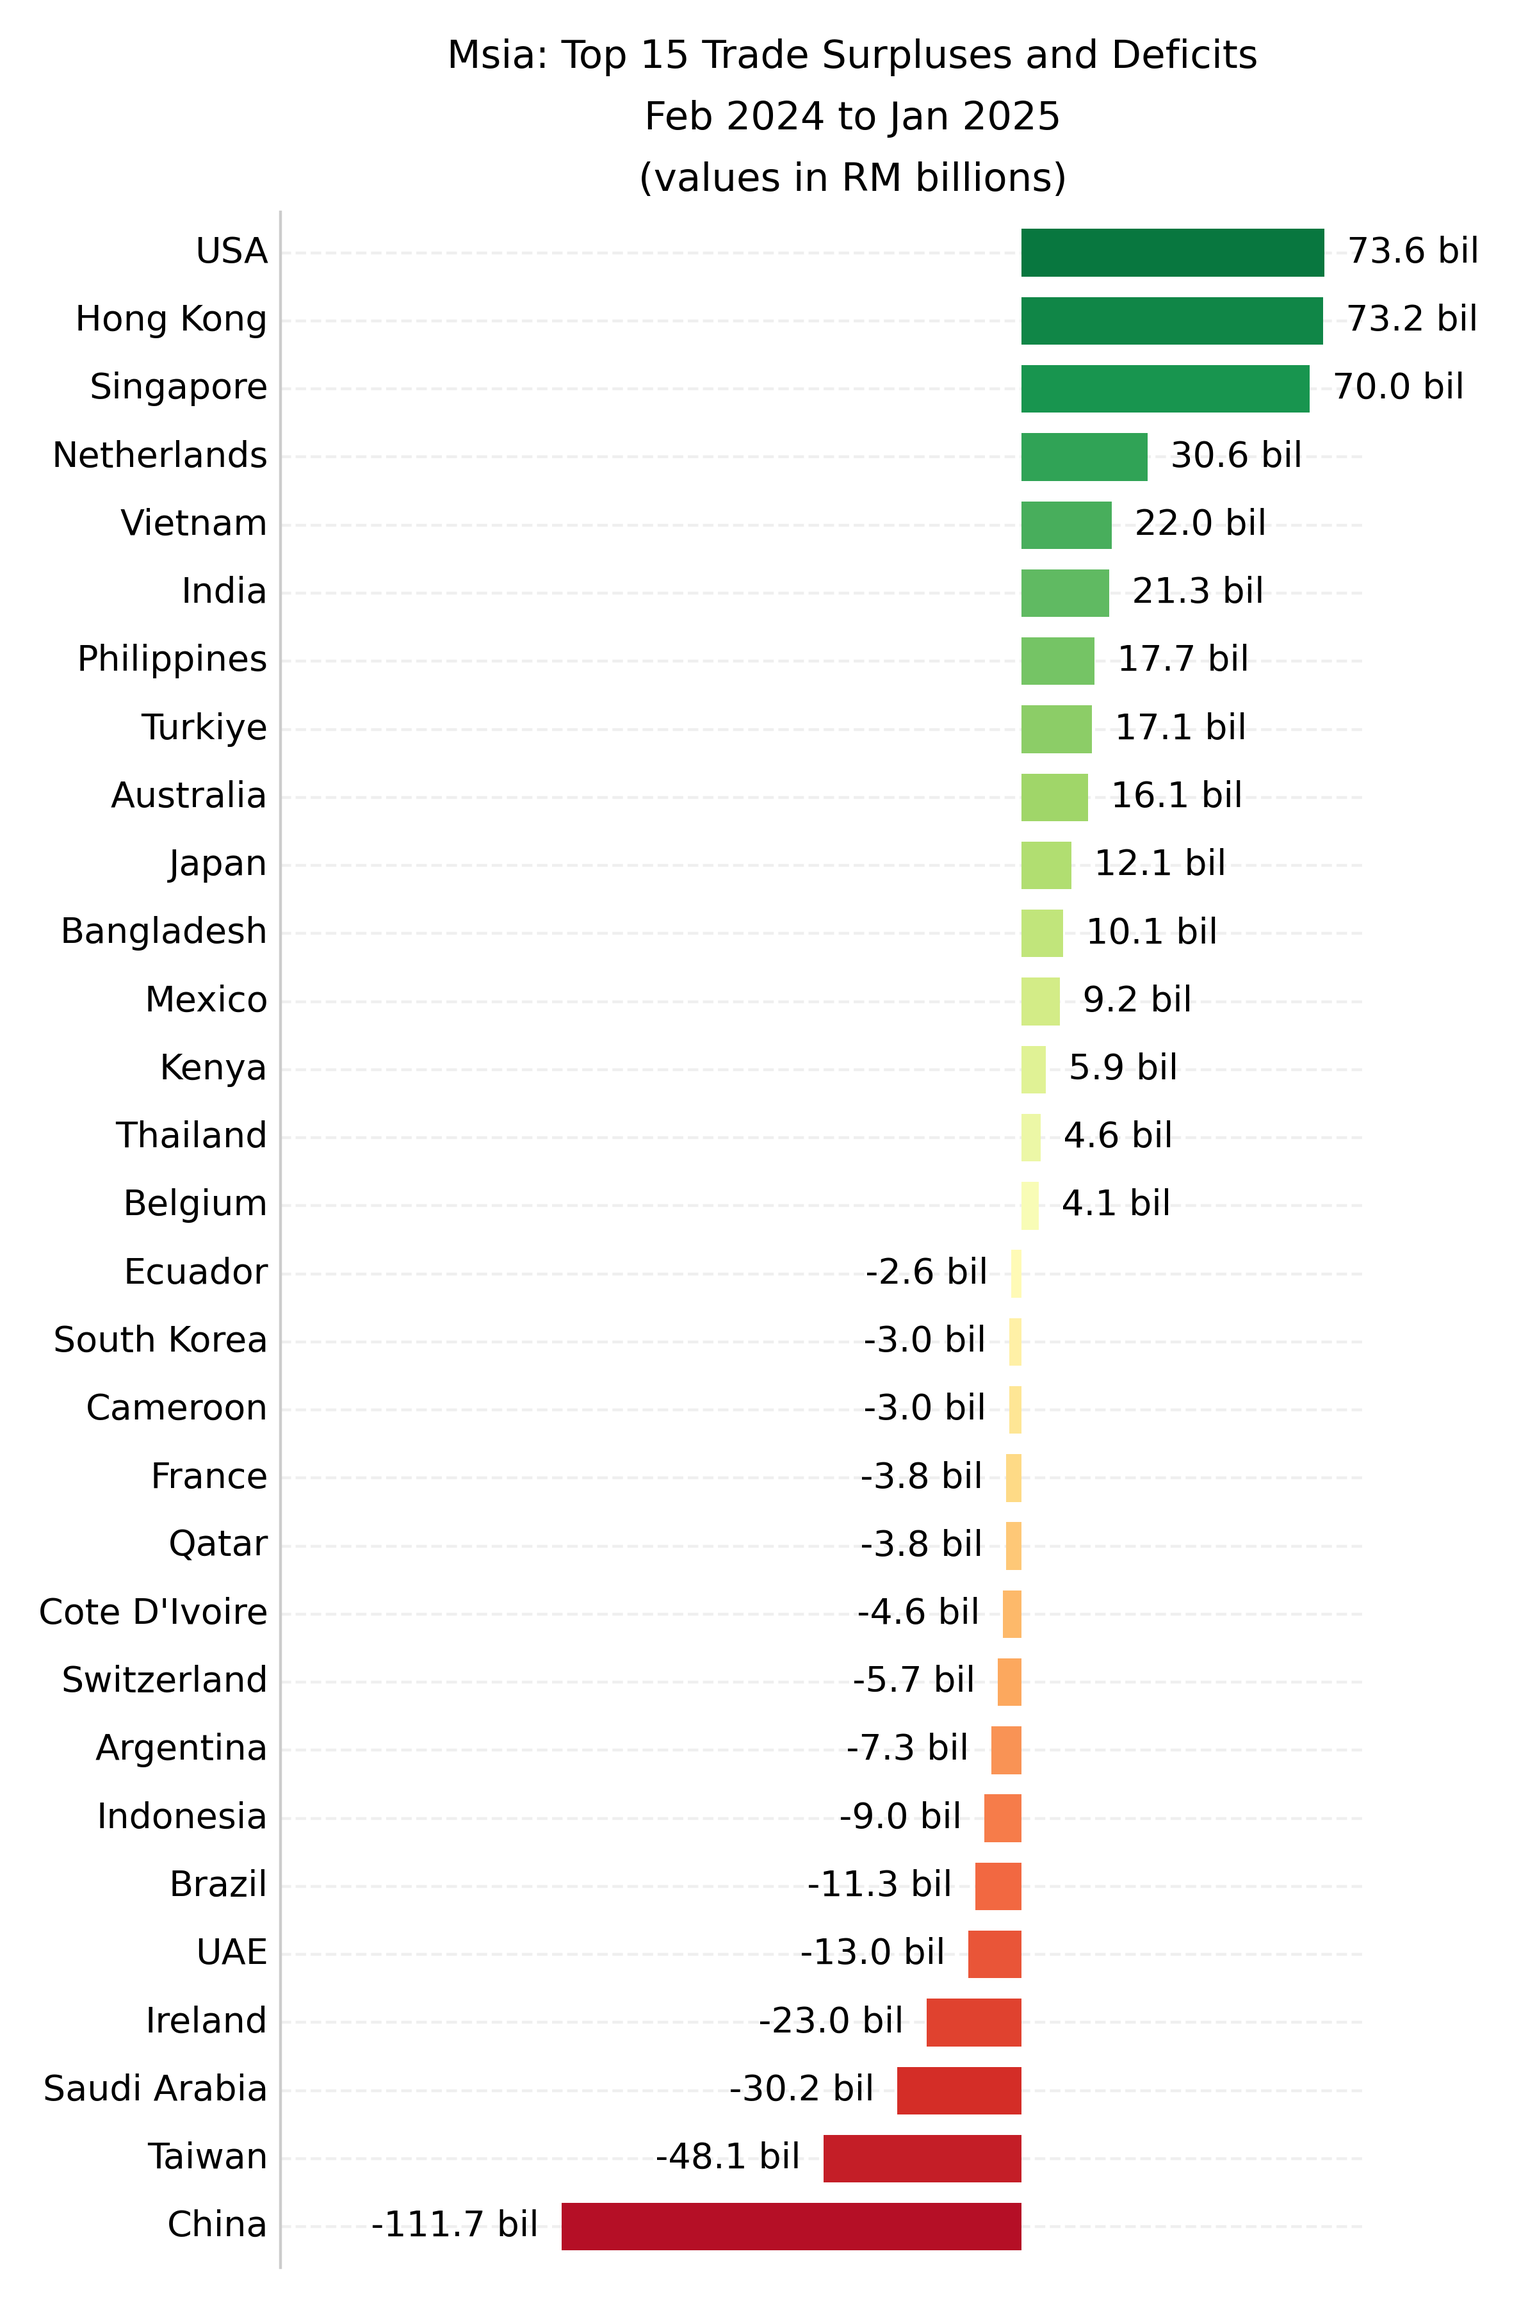
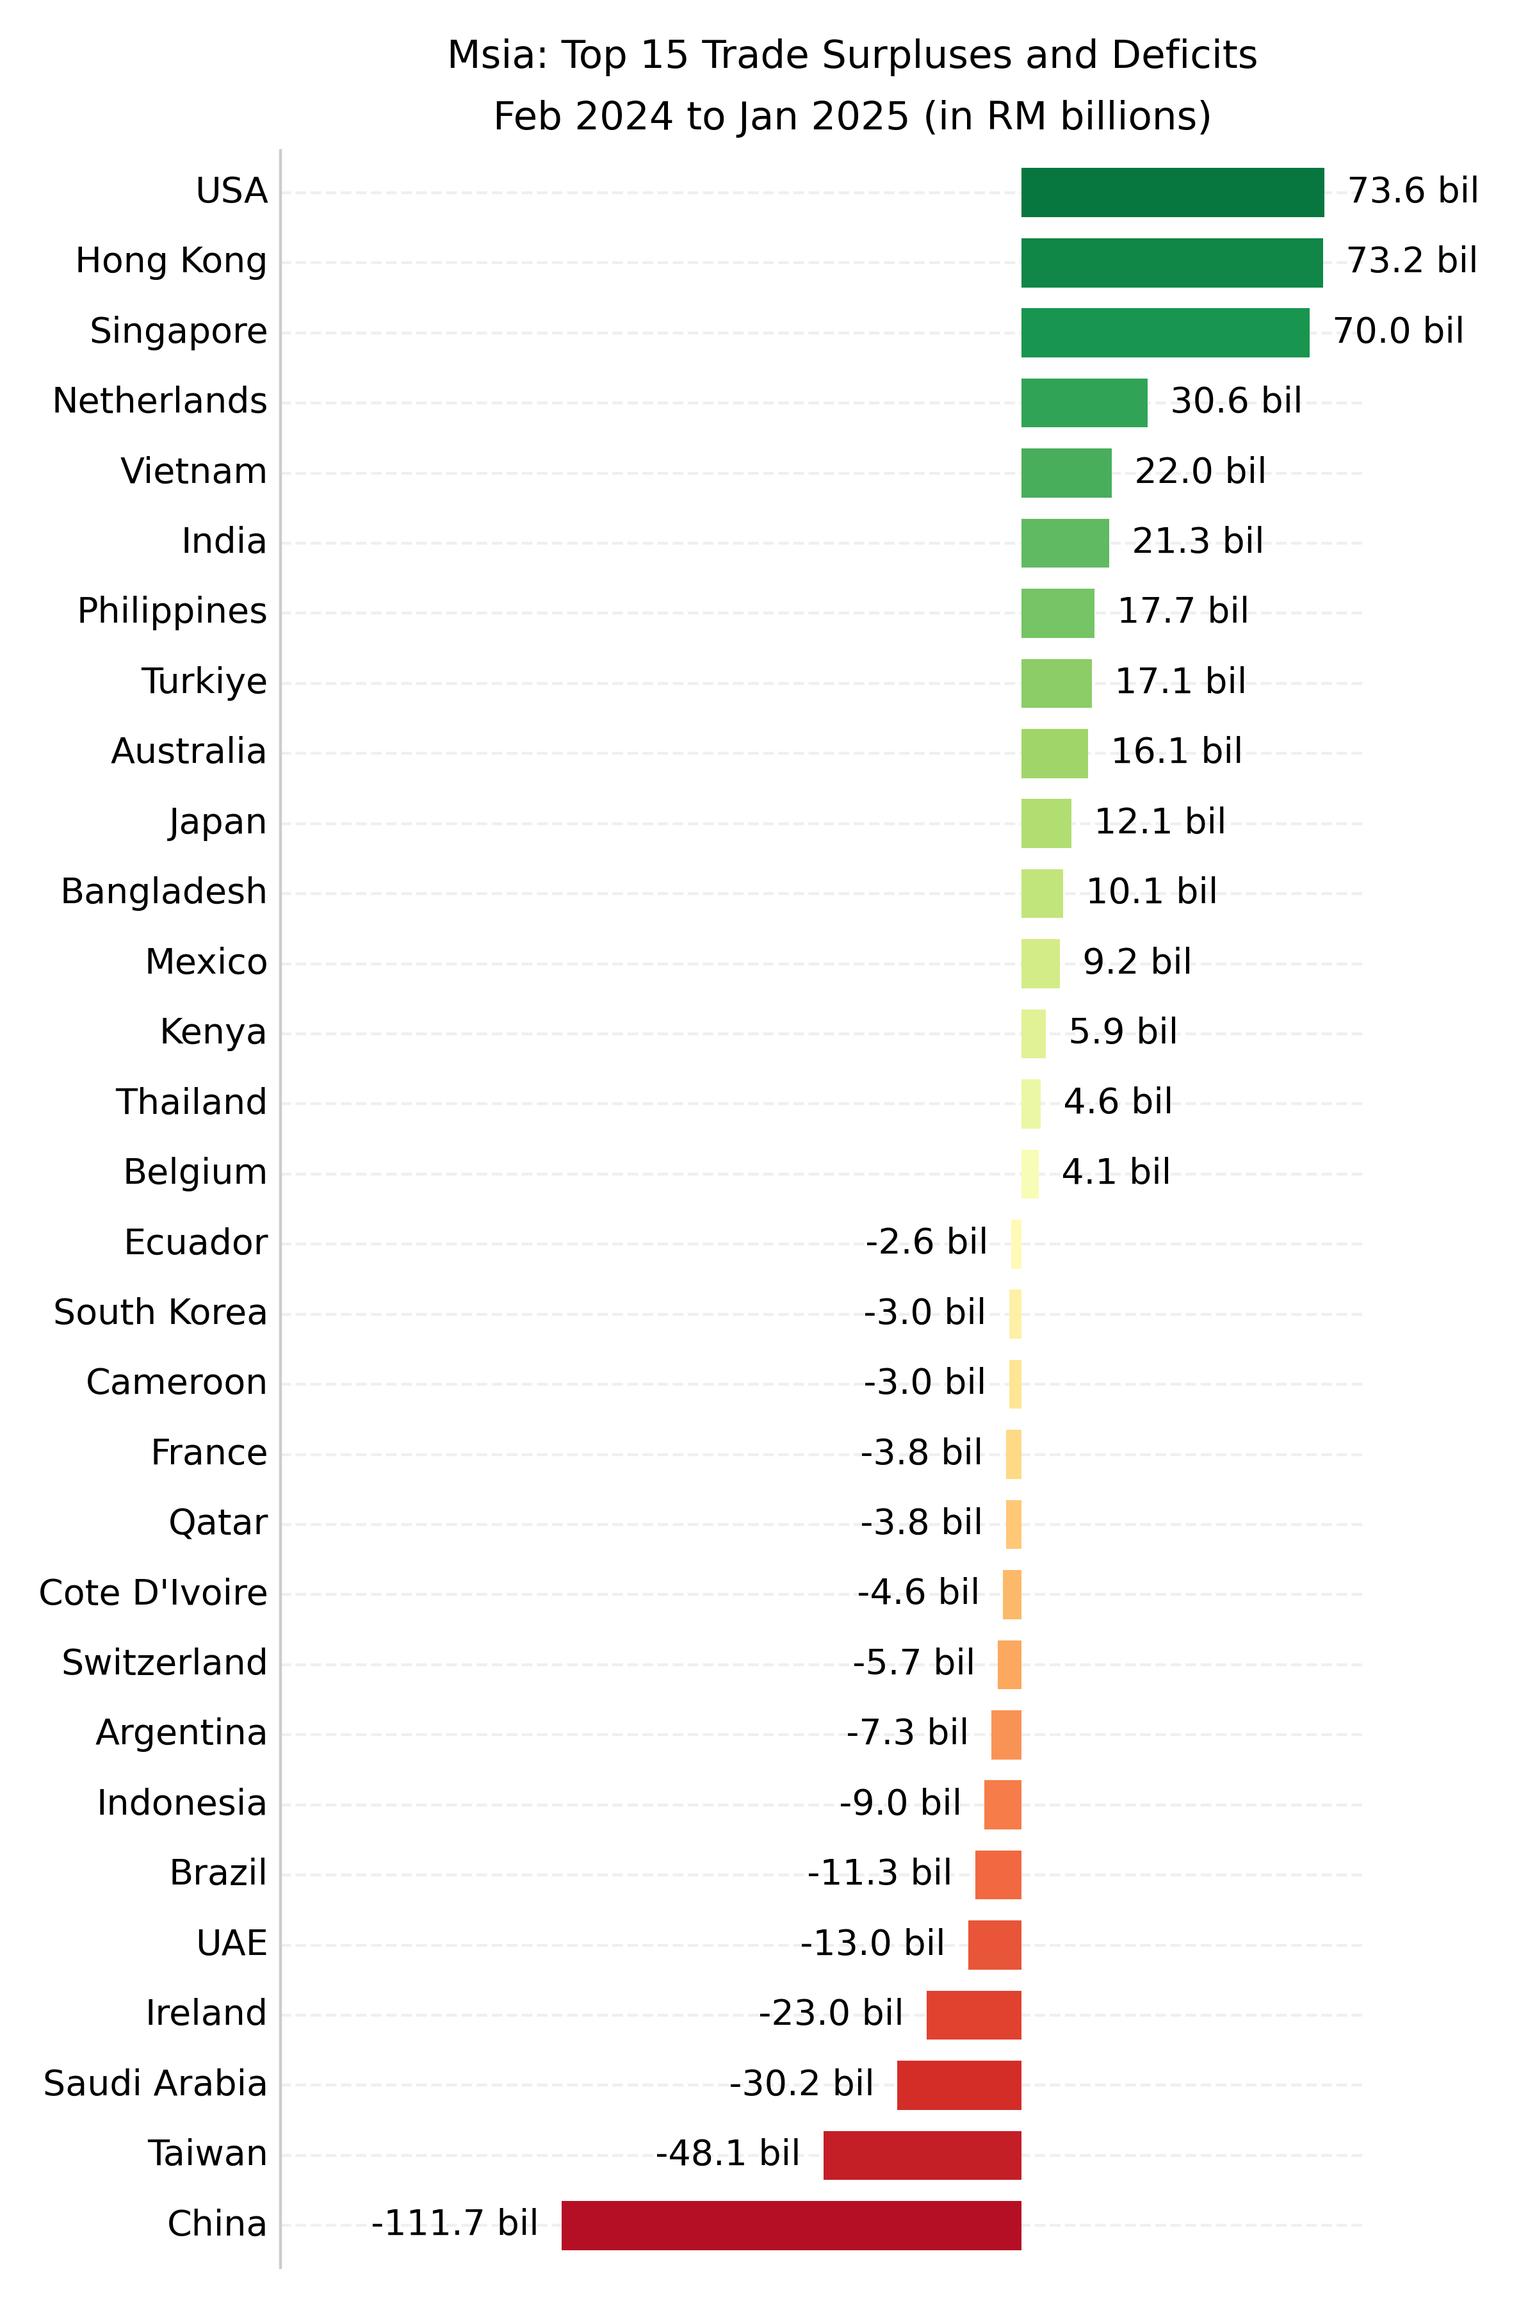
Add scripts

diff --git a/2025-04-04_tariff/script.py b/2025-04-04_tariff/script.py
@@ -1,0 +1,323 @@
+import pandas as pd
+from datetime import datetime
+
+from matplotlib import pyplot as plt
+import seaborn as sb
+
+REPL_COUNTRY = [
+    ('Taiwan, Province Of China','Taiwan'),
+    ('Korea, Republic Of','South Korea'),
+    ('Viet Nam','Vietnam'),
+    ('Russian Federation','Russia'),
+    ('United Arab Emirates','UAE'),
+    ('United States','USA'),
+    ('United Kingdom','UK')
+]
+
+
+def make_us_dataset():
+    df = pd.DataFrame(columns=['date'])
+
+    for YEAR in [2024,2025]:
+        for MONTH in range(1,13):
+            if YEAR == 2024 and MONTH < 2: continue
+            if YEAR == 2025 and MONTH > 1: break
+            tf = pd.read_parquet(f'data/trade_hs_{YEAR}-{MONTH:02d}.parquet')
+            tf = tf[tf.country == 'UNITED STATES']
+            tf.hs = tf.hs.astype(str).str[:8]
+            if len(df) == 0:
+                df = tf.assign(date=f'{YEAR}-{MONTH:02d}').copy()
+            else:
+                df = pd.concat([df,tf.assign(date=f'{YEAR}-{MONTH:02d}').copy()],axis=0,ignore_index=True)
+
+    df = df[['date','country','hs','hs_desc','imports','exports','domestic_exports']]
+    for c in ['imports','exports','domestic_exports']: df[c] = pd.to_numeric(df[c],errors='coerce').astype(int)
+    df.to_parquet('data/trade_us.parquet',index=False,compression='brotli')
+
+
+def make_bar_by_product(V_HS='hs_2d'):
+    EXEMPT = pd.read_csv('dep/hs_exempt.csv',dtype={'hs':str})['hs'].tolist()
+
+    VISUAL_HS = {
+        'hs_2d': {
+            '85': 'Electrical Machinery',
+            '84': 'Mechanical Machinery',
+            '90': 'Medical Instruments',
+            '40': 'Rubber',
+            '94': 'Furniture',
+            '15': 'Oils & Fats',
+            '39': 'Plastics',
+            '72': 'Iron and Steel',
+            '18': 'Cocoa',
+            '76': 'Aluminium',
+            '44': 'Wood',
+            '61': 'Apparel & Clothing',
+            '38': 'Chemicals',
+            '29': 'Organic Chemicals',
+            '88': 'Aircraft & Spacecraft',
+            '70': 'Glassware',
+            '95': 'Toys, Games & Sports',
+            '74': 'Copper',
+            '48': 'Paper & Paperboard'
+        },
+        'hs_6d': {
+            '854231': 'IC Processors',
+            '854290': 'IC Parts',
+            '851762': 'Telecom Equipment',
+            '852351': 'Solid-State Storage',
+            '854143': 'Solar Panels',
+            '844399': 'Printer Parts',
+            '401512': 'Medical Gloves',
+            '847150': 'Computer Processors',
+            '847180': 'Computer Controllers',
+            '852990': 'TV & Decoder Parts',
+            '854239': 'IC (Other)',
+            '854142': 'Solar Cells',
+            '847330': 'Circuit Boards', 
+            '901819': 'Diagnostic Equipment',
+            '854370': 'Electric Fence Energizers',
+            '853710': 'Control Panels',
+            '854232': 'Memory Chips',
+            '901890': 'Medical Headlamps',
+            '940350': 'Bedroom Furniture',
+            '850440': 'Power Adapters'
+        }
+    }
+
+    V = 'exports'
+
+    df = pd.read_parquet('data/trade_us.parquet').assign(exempt='non-exempt')
+    df.loc[df.hs.isin(EXEMPT),'exempt'] = 'exempt'
+    df[V_HS] = df.hs.str[:int(V_HS[3])]
+    df = df[[V_HS,'exempt',V]].groupby([V_HS,'exempt']).sum(numeric_only=True).sort_values(by=[V_HS,'exempt']).reset_index()
+    df = df.pivot(index=V_HS,columns='exempt',values=V).fillna(0).astype(int).reset_index()
+    df['total'] = df.sum(axis=1,numeric_only=True)
+    df = df.sort_values(by='total',ascending=False)
+
+    df[V_HS] = df[V_HS].map(VISUAL_HS[V_HS]).fillna('Others')
+    df = df.groupby(V_HS).sum(numeric_only=True).sort_values(by='total',ascending=True)
+    df = df/1e9
+    df['total_perc'] = df['total']/df['total'].sum() * 100
+
+    # Specifically to help plotting
+    df = pd.concat([df[df.index == 'Others'],df[df.index != 'Others']],axis=0)
+    df['non-exempt'] = df['non-exempt'].replace(0,0.000001)
+
+    plt.rcParams.update({'font.size': 10,
+                        'font.family': 'sans-serif',
+                        'grid.linestyle': 'dashed'})
+    plt.rcParams["figure.figsize"] = [6,7]
+    plt.rcParams["figure.autolayout"] = True
+    fig, ax = plt.subplots()
+
+    SPACE = '     '
+    TITLE = '2D HS level' if V_HS == 'hs_2d' else '6D HS level'
+
+    df.plot(kind='barh', width=0.7, y=['exempt', 'non-exempt'], stacked=True, edgecolor='black', lw=0, color=['#00008B', '#FFB6C1'], ax=ax)
+    # plot-wide adjustments
+    ax.set_title(f"""{SPACE}Msia: Exports to USA at {TITLE}
+    {SPACE}from Feb 2024 to Jan 2025
+    {SPACE}Exempt: RM{df.exempt.sum():,.1f} bil out of {df.total.sum():,.1f} bil ({(df.exempt.sum()/df.total.sum()*100):,.1f}%)""",linespacing=2,fontsize=11)
+    for b in ['top','right','bottom']: ax.spines[b].set_visible(False)
+    ax.spines['left'].set_color('#cccccc')
+    ax.get_legend().remove()
+    ax.set_axisbelow(True)
+    ax.tick_params(axis=u'both', which=u'both',length=0)
+
+    # y-axis adjustments
+    ax.set_ylabel('')
+    plt.yticks(rotation=0, va='center')
+
+    # x-axis adjustments
+    ax.set_xlabel('')
+    ax.xaxis.grid(False)
+    ax.set_xticklabels([])
+
+    for c in ax.containers:
+        # Only label the total once, not for each segment
+        if c == ax.containers[-1]:  # Only label the last (rightmost) container
+            labels = [f"   {df['total'].iloc[i]:,.1f} bil ({df['total_perc'].iloc[i]:,.1f}%)" for i in range(len(df))]
+            ax.bar_label(c, labels=labels, fontsize=10)
+
+    # add legend manually
+    legend_elements = [plt.Rectangle((0,0),2,2,facecolor='#00008B',label='Exempt'),
+                    plt.Rectangle((0,0),2,2,facecolor='#FFB6C1',label='Non-exempt')]
+    ax.legend(handles=legend_elements, loc='upper center', frameon=False, ncol=1, bbox_to_anchor=(0.95, 0.8))
+
+    plt.savefig(f'output/export_us_{V_HS}.png',dpi=400)
+    plt.close()
+
+    print('\n\nALT text:')
+    print(ax.get_title())
+    for i in range(len(df)):
+        print(f"{df.index[len(df)-i-1]}: {df.exempt.iloc[len(df)-i-1]:.1f} / {df.total.iloc[len(df)-i-1]:,.1f} bil exempt")
+    print('')
+
+
+def make_bar_surplus_deficit(V='trade_balance'):
+
+    df = pd.DataFrame(columns=['date','country',V])
+
+    for YEAR in [2024,2025]:
+        for MONTH in range(1,13):
+            if YEAR == 2024 and MONTH < 2: continue
+            if YEAR == 2025 and MONTH > 1: break
+            URL = f'/Users/theveshtheva/data/opendosm/mets/trade_hs_{YEAR}-{MONTH:02d}.parquet'
+            tf = pd.read_parquet(URL)
+            for c in ['imports','exports','domestic_exports','total']: tf[c] = pd.to_numeric(tf[c],errors='coerce')
+            tf[V] = tf['exports'] - tf['imports']
+            tf = tf[['country',V]].groupby('country').sum(numeric_only=True).sort_values(by=V,ascending=False).reset_index()
+            
+            if len(df) == 0:
+                df = tf.assign(date=f'{YEAR}-{MONTH:02d}').copy()[['date','country',V]]
+            else:
+                df = pd.concat([df,tf.assign(date=f'{YEAR}-{MONTH:02d}').copy()[['date','country',V]]],axis=0,ignore_index=True)
+
+    df = df[['country',V]].groupby('country').sum(numeric_only=True).sort_values(by=V,ascending=False).reset_index()
+    df[V] = df[V]/1e9
+    df.country = df.country.str.title()
+    for r in REPL_COUNTRY: df.country = df.country.str.replace(r[0],r[1])
+    df = df.sort_values(by=V).set_index('country')
+
+    plt.rcParams.update({'font.size': 10,
+                        'font.family': 'sans-serif',
+                        'grid.linestyle': 'dashed'})
+    plt.rcParams["figure.figsize"] = [6,9]
+    plt.rcParams["figure.autolayout"] = True
+    fig, ax = plt.subplots()
+
+    N = 30
+    df = pd.concat([df.head(N//2),df.tail(N//2)],axis=0)
+    col_pos = sb.color_palette('RdYlGn', n_colors=N).as_hex()
+    df.tail(N).plot(kind='barh', width=0.7, y=V, edgecolor='black', lw=0, color=col_pos, ax=ax)
+
+    # plot-wide adjustments
+    SPACE = '     '
+    ax.set_title(f"{SPACE}Msia: Top 15 Trade Surpluses and Deficits\n{SPACE}Feb 2024 to Jan 2025 (in RM billions)",linespacing=1.8,fontsize=11)
+    for b in ['top','right','bottom']: ax.spines[b].set_visible(False)
+    ax.spines['left'].set_color('#cccccc')
+    ax.get_legend().remove()
+    ax.set_axisbelow(True)
+    ax.tick_params(axis=u'both', which=u'both',length=0)
+    plt.yticks(rotation=0, va='center')
+
+    # y-axis adjustments
+    ax.set_ylabel('')
+    ax.yaxis.grid(True,alpha=0.2)
+
+    # x-axis adjustments
+    ax.set_xlabel('')
+    ax.set_xlim(-180)
+    ax.set_xticklabels([])
+
+    # annotations
+    for c in ax.containers:
+        labels = [f"  {df[V].iloc[i]:,.1f} bil  " for i in range(-N,0)]
+        ax.bar_label(c, labels=labels,fontsize=10)
+
+    print('\nALT text:')
+    print("Top 15 Trade Deficits:")
+    for i in range(N//2):
+        print(f"{i+1}) {df.index[i]}: {df[V].iloc[i]:,.1f} bil")
+    
+    print("\nTop 15 Trade Surpluses:")
+    for i in range(-1,-N//2-1,-1):
+        print(f"{i*-1}) {df.index[i]}: {df[V].iloc[i]:,.1f} bil")
+    print('')
+
+    plt.savefig(f'output/trade_surplus_deficit.png',dpi=400)
+    plt.close()
+
+
+def make_bar_topN(V='exports',N=20):
+
+    COLOUR = {
+        'exports': 'Reds',
+        'imports': 'Blues',
+        'domestic_exports': 'Oranges'
+    }
+    TITLES = {
+        'exports': 'Export Destinations',
+        'imports': 'Import Origins',
+        'domestic_exports': 'Export Destinations (excl. re-exports)'
+    }
+
+    df = pd.DataFrame(columns=['date','country',V])
+
+    for YEAR in [2024,2025]:
+        for MONTH in range(1,13):
+            if YEAR == 2024 and MONTH < 2: continue
+            if YEAR == 2025 and MONTH > 1: break
+            URL = f'/Users/theveshtheva/data/opendosm/mets/trade_hs_{YEAR}-{MONTH:02d}.parquet'
+            tf = pd.read_parquet(URL)
+            for c in ['imports','exports','domestic_exports','total']: tf[c] = pd.to_numeric(tf[c],errors='coerce')
+            tf = tf[['country',V]].groupby('country').sum(numeric_only=True).sort_values(by=V,ascending=False).reset_index()
+            
+            if len(df) == 0:
+                df = tf.assign(date=f'{YEAR}-{MONTH:02d}').copy()[['date','country',V]]
+            else:
+                df = pd.concat([df,tf.assign(date=f'{YEAR}-{MONTH:02d}').copy()[['date','country',V]]],axis=0,ignore_index=True)
+
+    df = df[['country',V]].groupby('country').sum(numeric_only=True).sort_values(by=V,ascending=False).reset_index()
+    df[V] = df[V]/1e9
+    df.country = df.country.str.title()
+    for r in REPL_COUNTRY: df.country = df.country.str.replace(r[0],r[1])
+    df[f'{V}_perc'] = df[V]/df[V].sum() * 100
+    df = df.sort_values(by=f'{V}_perc').set_index('country')
+    df[f'{V}_perc_cumul'] = df[f'{V}_perc'].cumsum()
+
+    plt.rcParams.update({'font.size': 10,
+                        'font.family': 'sans-serif',
+                        'grid.linestyle': 'dashed'})
+    plt.rcParams["figure.figsize"] = [6,7]
+    plt.rcParams["figure.autolayout"] = True
+    fig, ax = plt.subplots()
+
+    col_pos = sb.color_palette(COLOUR[V], n_colors=N).as_hex()
+    df.tail(N).plot(kind='barh', width=0.7, y=V, edgecolor='black', lw=0, color=col_pos, ax=ax)
+
+    # plot-wide adjustments
+    SPACE = '     '
+    ax.set_title(f"{SPACE}Msia: Top {N} {TITLES[V]}\n{SPACE}Feb 2024 to Jan 2025 (in RM billions)",linespacing=1.8,fontsize=11)
+    for b in ['top','right','bottom']: ax.spines[b].set_visible(False)
+    ax.spines['left'].set_color('#cccccc')
+    ax.get_legend().remove()
+    ax.set_axisbelow(True)
+    ax.tick_params(axis=u'both', which=u'both',length=0)
+
+    # y-axis adjustments
+    ax.set_ylabel('')
+    plt.yticks(rotation=0, va='center')
+
+    # x-axis adjustments
+    ax.set_xlabel('')
+    ax.xaxis.grid(False)
+    ax.get_xaxis().set_visible(False)
+    for c in ax.containers:
+        labels = [f"  {df[V].iloc[i]:,.1f} bil ({df[f'{V}_perc'].iloc[i]:,.1f}%)" for i in range(-N,0)]
+        ax.bar_label(c, labels=labels,fontsize=10)
+
+    # print chart title
+    print('\nALT text:')
+    print(ax.get_title().replace(SPACE,''))
+    for i in range(-1,-N-1,-1):
+        print(f"{i*-1}) {df.index[i]}: {df[V].iloc[i]:,.1f} bil  ({df[f'{V}_perc'].iloc[i]:,.1f}%)")
+    print('')
+
+    plt.savefig(f'output/top{N}_{V}.png',dpi=400)
+
+
+if __name__ == '__main__':
+    START = datetime.now()
+    print(f'\nStart: {START:%Y-%m-%d %H:%M:%S}\n')
+    # print('\nGenerating bar charts by product')
+    # make_bar_by_product('hs_2d')
+    # make_bar_by_product('hs_6d')
+    # print('\nGenerating bar chart for surplus/deficit')
+    # make_bar_surplus_deficit()
+    print('\nGenerating bar chart for top 20')
+    make_bar_topN('exports',20)
+    make_bar_topN('imports',20)
+    make_bar_topN('domestic_exports',20)
+    print(f'\nEnd: {datetime.now():%Y-%m-%d %H:%M:%S}\n')
+    print(f'Runtime: {str(datetime.now() - START).split(".")[0]}\n')
